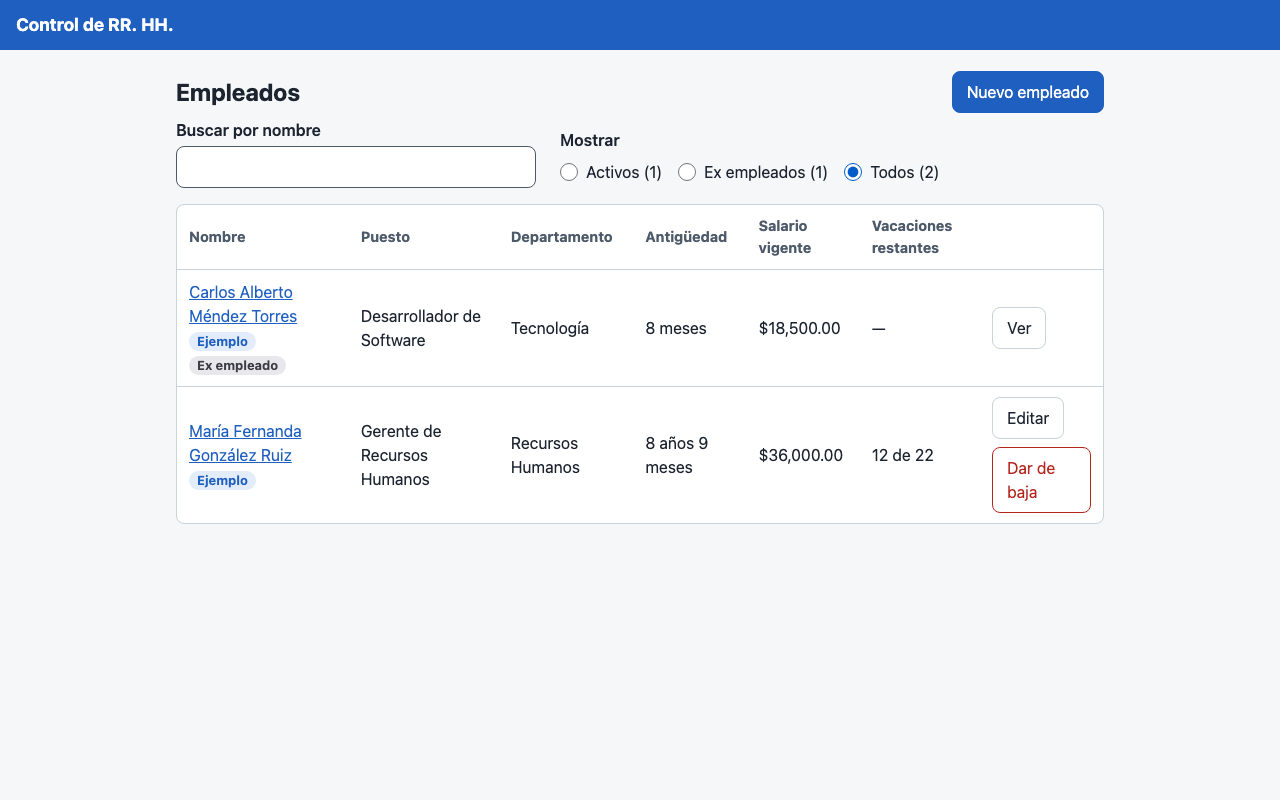
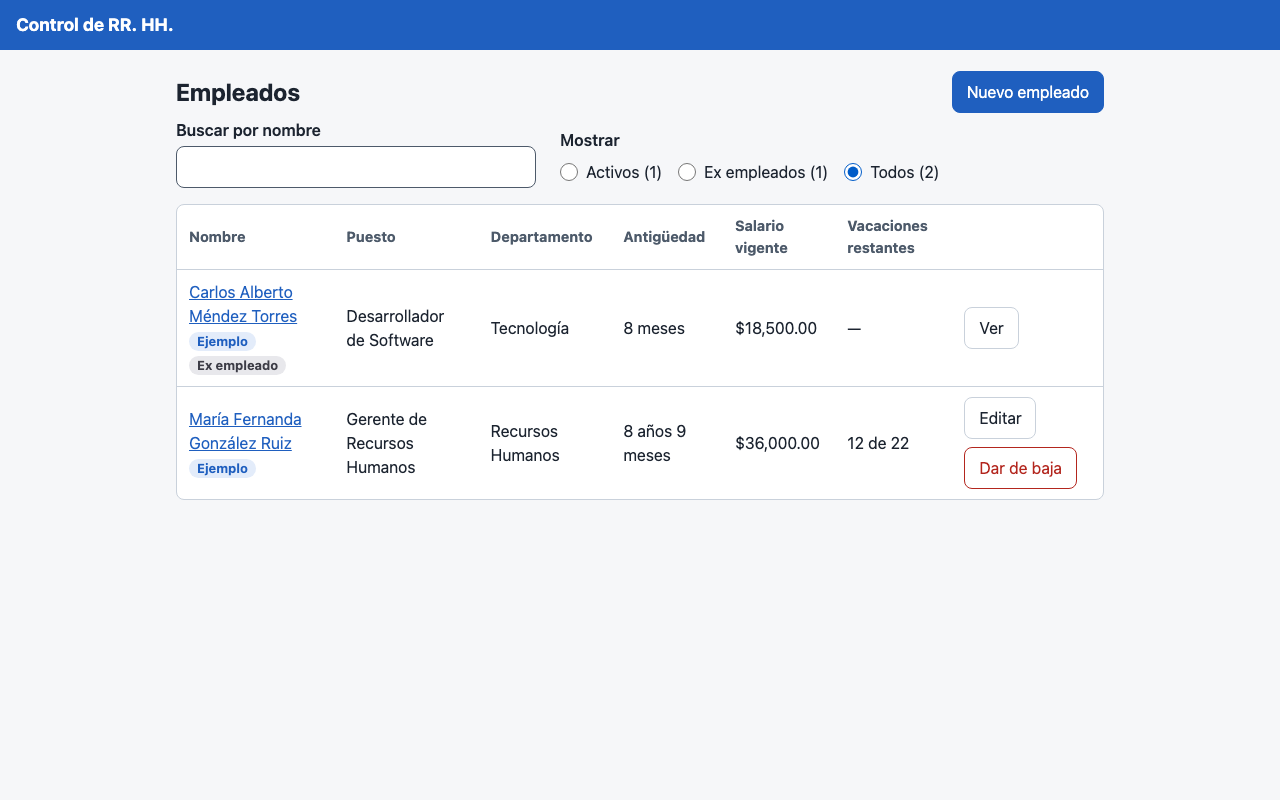
docs(A8): evidencia y capturas de la iteración 6 en producción

diff --git a/docs/evidencias/iteracion-6-produccion.md b/docs/evidencias/iteracion-6-produccion.md
@@ -1,0 +1,21 @@
+# Evidencia — Iteración 6 (A8, R8, R5) en producción
+
+> Fecha: 2026-11-21 · URL: https://app-rh-iota.vercel.app · Build `assets/index-Drcgoo5s.js` + estilos `index-Cxf0t53B.css`
+> CI de GitHub Actions (lint, pruebas, build): ✅ · 124 pruebas locales ✅
+
+Verificación automatizada con Chrome headless sobre la URL pública, en escritorio (1280 px) y móvil (390 px), partiendo de un navegador sin datos.
+
+| Caso | Resultado | Captura |
+|---|---|---|
+| La lista muestra Activos por omisión, el filtro con conteos y "Dar de baja" en lugar de "Eliminar" | ✅ "Activos (2) · Ex empleados (0) · Todos (2)"; no aparece "Eliminar" | `01-lista-activos` |
+| Baja sin datos y con fecha anterior al ingreso (R8) | ✅ Bloqueado; se marcan fecha y motivo: "La baja no puede ser anterior al ingreso (02/03/2026)." | `02-baja-errores` |
+| Baja de Carlos el 20/11/2026 por renuncia, con comentario | ✅ Se guarda | `03-baja-capturada` |
+| Detalle del ex empleado | ✅ "Dado de baja el 20/11/2026 · Motivo: Renuncia · Cambio de ciudad"; sin formularios, sin vacaciones, sin Editar ni Dar de baja; antigüedad al darse de baja y último salario | `04-detalle-ex-empleado` |
+| Filtro Ex empleados y Todos | ✅ "Activos (1) · Ex empleados (1)"; fila con etiqueta "Ex empleado", vacaciones "—" y solo "Ver" | `05-lista-ex-empleados`, `06-lista-todos` |
+| Alta con el NSS del ex empleado (R5 entre activos) | ✅ Se permite y se informa: "Este NSS perteneció a Carlos Alberto Méndez Torres (ex empleado, baja el 20/11/2026); se permite para recontratación." | `07-alta-nss-ex-empleado` |
+| Editar un ex empleado desde la URL | ✅ Aviso de solo consulta, sin formulario | — |
+| Lighthouse Accesibilidad (lista, alta, detalle, detalle con avisos, formulario de baja y detalle de ex empleado; móvil y escritorio) | ✅ 100 en las 12 auditorías | — |
+
+Las capturas están en `capturas/iteracion-6/` con sufijo `-escritorio` y `-movil`.
+
+**Corrección detectada en las capturas:** en escritorio el botón "Dar de baja" de la lista partía su texto en dos líneas. Se agregó `white-space: nowrap` a los botones, se volvió a desplegar y se retomaron las capturas.

diff --git a/docs/inception-iteracion-6.md b/docs/inception-iteracion-6.md
@@ -97,3 +97,6 @@ Plan aprobado el 2026-11-21 ("Apruebo"). Desde esta iteración, cada despliegue 
 - La pantalla de baja limita la fecha (`min`/`max`) y explica el rango permitido debajo del campo.
 - Si se entra por URL a `/editar` o `/baja` de un ex empleado, se muestra un aviso con enlace al expediente.
 - `store.actualizarEmpleado` conserva la baja aunque se llame sobre un ex empleado.
+
+## 9. Operations
+✅ Desplegado y verificado en producción el 2026-11-21, con capturas de escritorio y móvil (ver `docs/evidencias/iteracion-6-produccion.md`).
